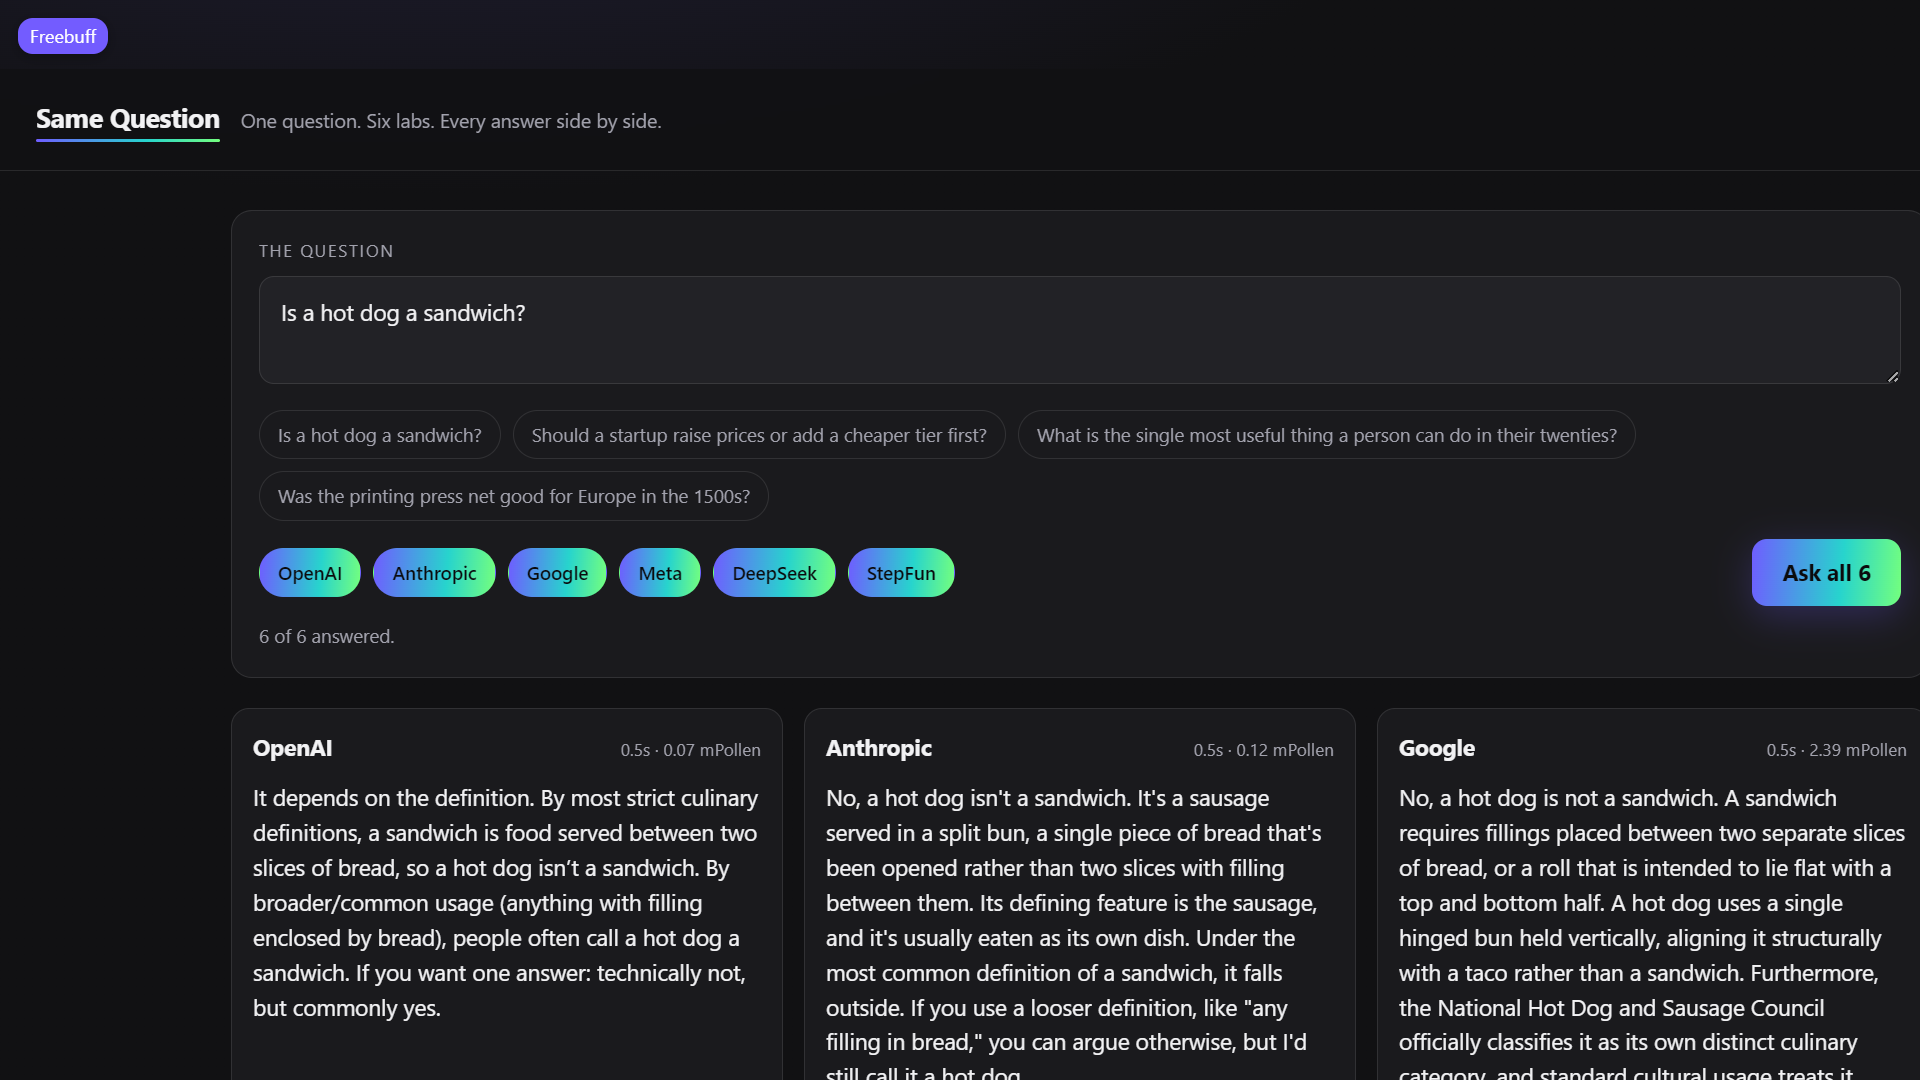
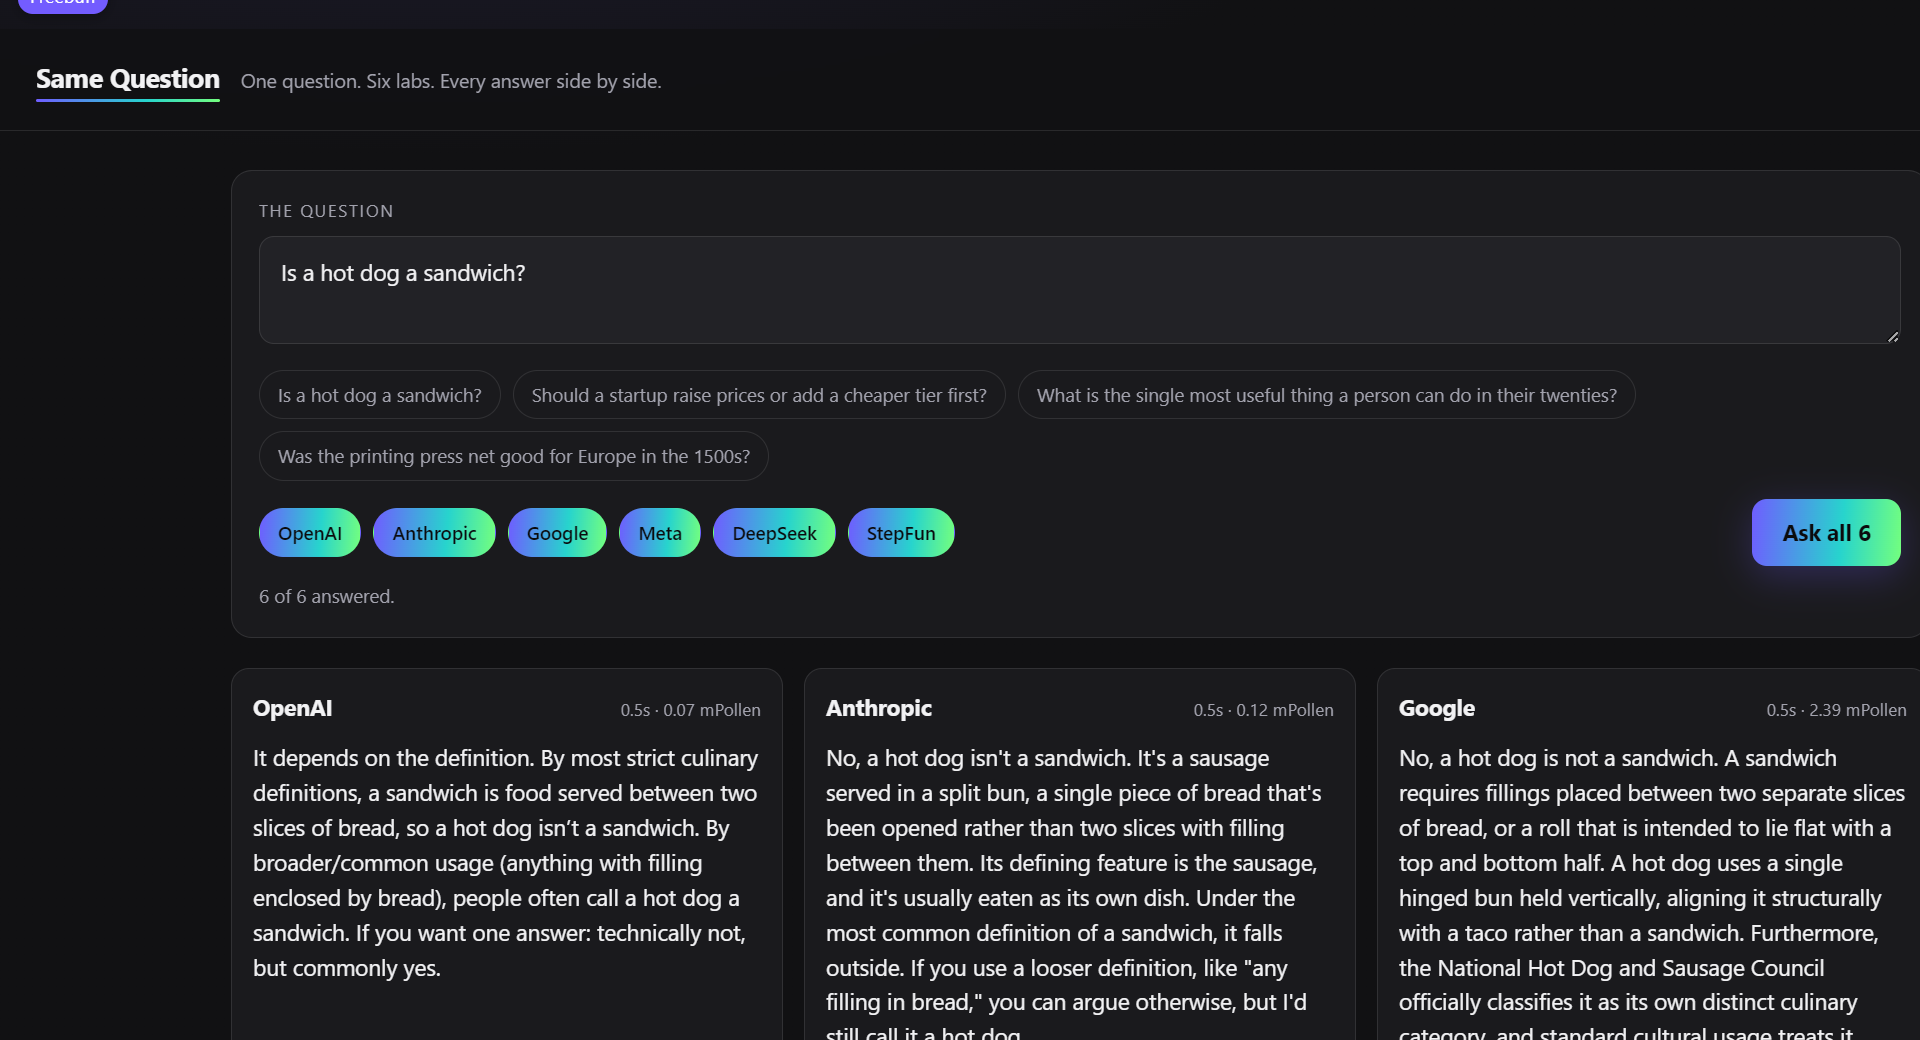
Add submission form values for quest #19183
Record the exact catalog form answers, the integration evidence a maintainer
can check, and a cropped real screenshot for the app card.

Generated with Codebuff 🤖

diff --git a/SUBMISSION.md b/SUBMISSION.md
@@ -1,0 +1,67 @@
+# Submission form values — quest #19183
+
+Paste these into
+[the app submission form](https://github.com/pollinations/pollinations/issues/new?template=app-submission.yml).
+The title becomes `[App Submission] Same Question` automatically.
+
+| Field | Value |
+|---|---|
+| **App Name** | `Same Question` |
+| **App Description** | `Ask OpenAI, Anthropic, Google, Meta, DeepSeek and StepFun the same question, then read all six answers side by side with each one's latency and real Pollen cost.` |
+| **App URL** | `https://rekty.github.io/same-question/` |
+| **GitHub Repository URL** | `https://github.com/rekty/same-question` |
+| **Screenshot** | `assets/screenshot.png` (1920×1040, real run) |
+| **App Category** | `chat` |
+| **Platform** | `web` |
+| **App Language** | `en` |
+| **Discord Username** | *(optional — leave empty)* |
+| **Quest** | `#19183` |
+
+Description length: 154 characters (limit is 200).
+
+## Pollinations integration (evidence)
+
+If the form or a maintainer asks for a free-text evidence section, use this:
+
+```
+Static site only: index.html, app.js, style.css, shared/*.js. No backend, no
+server-side secret, no database.
+
+- Six labs, one prompt. DEFAULT_MODELS in app.js maps one model per lab:
+  openai/gpt-5.4-nano, anthropic/claude-haiku-5.5, google/gemini-4-argon,
+  meta/muse-wonder-1.0, deepseek/deepseek-v4.1-flash-1017, stepfun/step-5-preview.
+  Any two to six can be toggled.
+- Calls. Each card is one browser POST to
+  https://gen.pollinations.ai/v1/chat/completions with a shared 90-word system
+  prompt. There is no cache and no merged "consensus" answer.
+- Payment. Every request carries the reader's own sk_ key (Bring your own
+  Pollen). The key is kept in this tab's sessionStorage and sent only to
+  gen.pollinations.ai; the owner never pays for a reader's run.
+- Real cost shown. GET /models supplies per-token prices and each card prints
+  the Pollen that answer actually cost, computed from the usage block the API
+  returns. In the screenshot, six answers cost 0.07, 0.12, 2.39 … mPollen.
+- Splitting. The "where they split" grouping is local (Jaccard over content
+  words + union-find) and costs nothing; naming the camps is one optional
+  gpt-5.4-nano call that sees only the answers.
+- Shareable question. "Copy link" stores the question and chosen models in the
+  URL hash; answers are never in the link because they cost the next reader
+  their own Pollen.
+- Credit. The page footer links to pollinations.ai, and the README carries the
+  "Made with pollinations.ai" badge.
+- Tests. `node --test` → 7/7 passing (grouping, verdict wording, judge labels).
+```
+
+## Verified before filling the form
+
+- `https://rekty.github.io/same-question/` returns HTTP 200 and renders the
+  question box, six lab toggles, "Ask all 6" and the credit footer.
+- A real run on 2026-11-12 answered 6/6 models and reported per-answer cost.
+- `node --test` in the repository: 7 pass, 0 fail.
+
+## Checklist
+
+- [x] App live and URL matches the live site
+- [x] Screenshot is a real screen (16:9-ish, 1920×1040)
+- [x] `Quest` field: `#19183`
+- [x] README badge present
+- [x] Visible pollinations.ai link in the page footer
